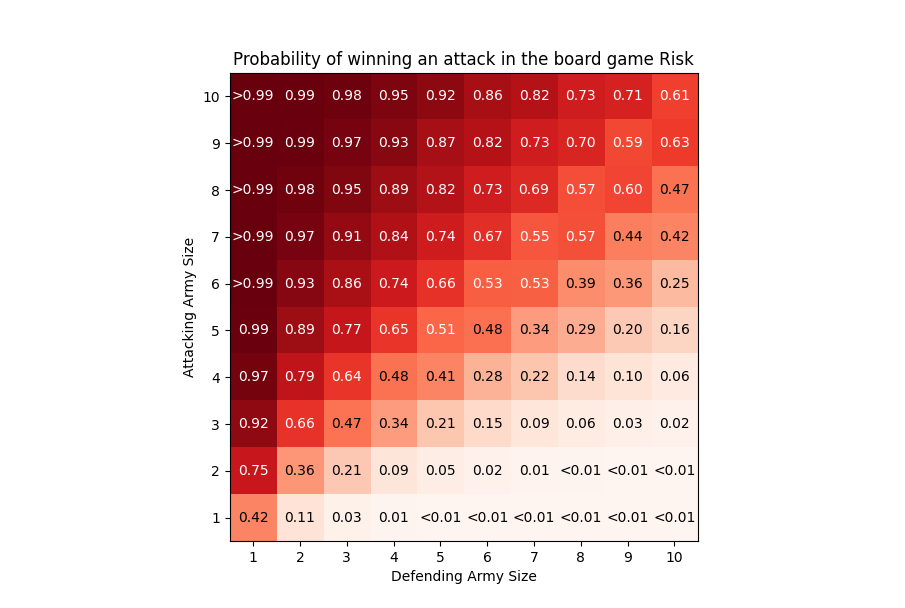
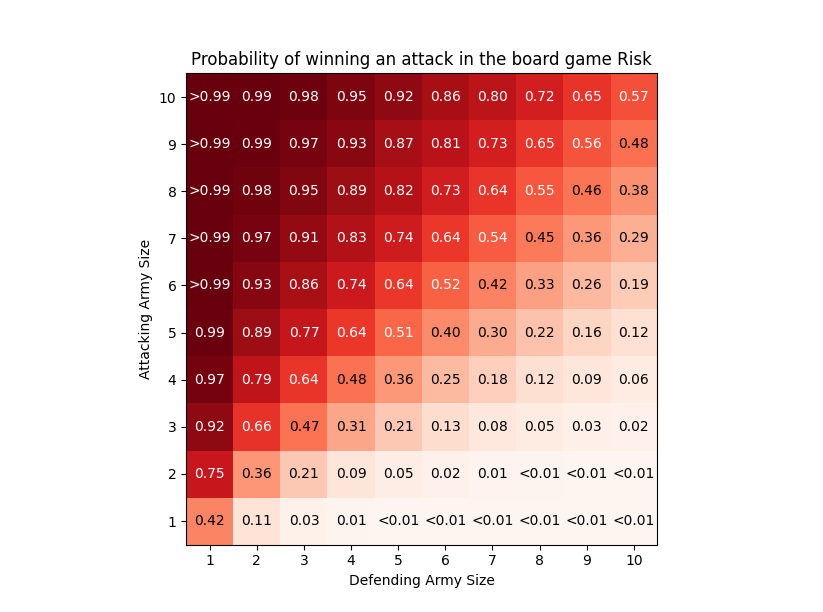
Fixed computation bug and updated visualization

Changed region(s): [[0.1519, 0.0625, 0.8202, 0.9688]]

diff --git a/RiskProbabilities.py b/RiskProbabilities.py
@@ -11,40 +11,6 @@ import RiskProbabilitiesLib as rpl
 
 # future idea: add a variable to simulate other die sizes?
 
-# requires lists to be sorted already
-#def compareDice(attDice,defDice):
-#	attLen = len(attDice)
-#	defLen = len(defDice)
-#	comps = min(attLen,defLen)
-#	attLoss = 0
-#	defLoss = 0
-#	for ii in range(comps):
-#		if attDice[ii] > defDice[ii]:
-#			defLoss += 1
-#		else:
-#			attLoss += 1
-#	return [attLoss,defLoss]
-
-# should only be called from selectDiceIndex(nAtt,nDef)
-#def selectDice(nAtt,nDef):
-#	if nAtt > 3:
-#		attDice = 3
-#	else:
-#		attDice = nAtt
-#	if nDef > 2:
-#		defDice = 2
-#	else:
-#		defDice = nDef
-#	return [attDice,defDice]
-
-#def selectDiceIndex(nAtt,nDef):
-#	[attDice,defDice] = selectDice(nAtt,nDef)
-#	return [attDice-1,defDice-1]
-
-#def getProbs(nAtt,nDef):
-#	[a,d] = selectDiceIndex(nAtt,nDef)
-#	return probs[a,d]
-
 # building pre-sorted dictionaries for one, two, and three dice
 for p in range(6):
 	if p == 0:
@@ -107,12 +73,15 @@ for m in range(2,chartSize):
 		[p0,p1,p2] = rpl.getProbs(ii,m,probs)
 		chart[ii][m] = (p0*chart[ii][m-2]) + (p1*chart[ii-1][m-1]) + (p2*chart[ii-2][m])
 		[p0,p1,p2] = rpl.getProbs(m,ii,probs)
-		chart[m][ii] = p0*chart[m][ii-2] + p1*chart[m-1][ii-1] + p2*chart[m-2][ii-2]
+		chart[m][ii] = p0*chart[m][ii-2] + p1*chart[m-1][ii-1] + p2*chart[m-2][ii]
 
 ch = plt.imshow(chart[1:chartSize,1:chartSize],cmap = 'Reds',origin='lower',extent=(0.5,chartSize-0.5,0.5,chartSize-0.5))
 ticks = [i for i in range(1,chartSize)]
 plt.xticks(ticks)
 plt.yticks(ticks)
+plt.xlabel("Defending Army Size")
+plt.ylabel("Attacking Army Size")
+plt.title("Probability of winning an attack in the board game Risk")
 
 for ii in range(1,chartSize):
 	for jj in range(1,chartSize):
